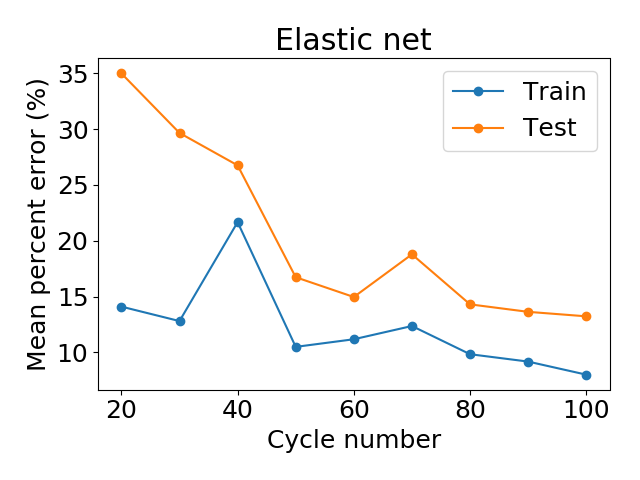
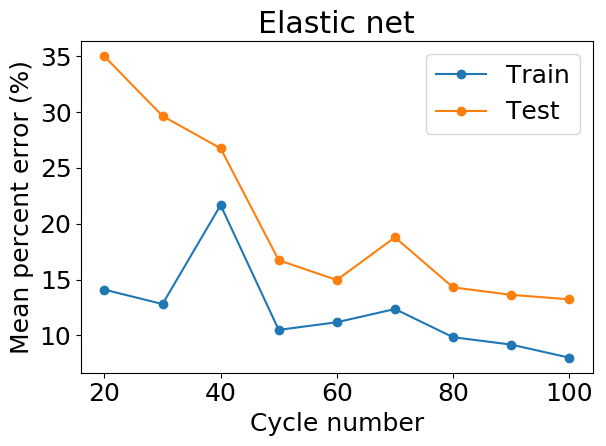
test error plots

diff --git a/test.py b/test.py
@@ -8,17 +8,25 @@ Created on Sun Dec  9 21:30:22 2018
 @author: peter
 """
 import numpy as np
+import matplotlib
 import matplotlib.pyplot as plt
 import pickle
+from sklearn.ensemble import RandomForestRegressor
 
-MODEL = 'enet'
+doPlot = False
+use_all_features = False
+
+MODEL = 'RF'
 
 if MODEL == 'enet':
     full_name = 'Elastic net'
-elif MODEL == 'svr':
+    use_log_cycle_life = True
+elif MODEL == 'SVR':
     full_name = 'SVR'
-elif MODEL == 'rf':
+    use_log_cycle_life = False
+elif MODEL == 'RF':
     full_name = 'Random forest'
+    use_log_cycle_life = False
 
 def main():
     # prelims
@@ -28,8 +36,6 @@ def main():
     N_cycles = np.array([20,30,40,50,60,70,80,90,100])
     rmse = np.zeros(N_cycles.shape)
     mpe = np.zeros(N_cycles.shape)
-    use_log_cycle_life = True
-    use_all_features = False
     which_features = [2,3,4,21,22,24,25,39,40,48,49,63,65]
     
     # load all models
@@ -42,24 +48,33 @@ def main():
         file_name = "testing/cycles_2TO" + str(int(N_cycles[i])) + "_log.csv"
         features, cycle_lives, feature_names = load_dataset(file_name, False, use_all_features, which_features)
         
-        # set enet model
+        file_name = "training/cycles_2TO" + str(int(N_cycles[i])) + "_log.csv"
+        train_features, train_cycle_lives, feature_names = load_dataset(file_name, False, use_all_features, which_features)
+        
+        
+        # set model
         m = models[i]
         
         # predictions
         if use_log_cycle_life:
             predicted_cycle_lives = 10**m.predict(features)
+            train_predicted_cycle_lives = 10**m.predict(train_features)
         else:
             predicted_cycle_lives = m.predict(features)
+            train_predicted_cycle_lives = m.predict(train_features)
         
-        plt.figure()
-        plt.plot(cycle_lives,predicted_cycle_lives,'o')
-        plt.plot([0,1400],[0,1400],'r-')
-        plt.ylabel('Predicted cycle life')
-        plt.xlabel('Observed cycle life')
-        plt.title('Cycle number '+str(N_cycles[i]))
-        #plt.axis('equal')
-        plt.axis([0, 1400, 0, 1400])
-        plt.show()
+        print(predicted_cycle_lives)
+        print(train_predicted_cycle_lives)
+        
+        if doPlot:
+            plt.figure()
+            plt.plot(cycle_lives,predicted_cycle_lives,'o')
+            plt.plot([0,1400],[0,1400],'r-')
+            plt.ylabel('Predicted cycle life')
+            plt.xlabel('Observed cycle life')
+            plt.title('Cycle number '+str(N_cycles[i]))
+            #plt.axis('equal')
+            plt.axis([0, 1400, 0, 1400])
         
         residuals = predicted_cycle_lives - cycle_lives
         rmse[i] = np.sqrt(((residuals) ** 2).mean())
@@ -72,10 +87,10 @@ def main():
         print('=======================================')
         
     
-    # plot rmse vs cycle number
+    # plot error vs cycle number
     train_mpe = pickle.load(open(MODEL+"_training_percenterror.pkl", "rb" ))
     if MODEL != 'enet':
-        cv_mpe = pickle.load(open(MODEL+"_cv_percenterror.pkl", "rb" ))
+        cv_mpe = pickle.load(open(MODEL+"_crossvalid_percenterror.pkl", "rb" ))
     
     # mse
     plt.figure()
@@ -89,7 +104,23 @@ def main():
     plt.title(full_name)
     
     plt.tight_layout()
-    plt.savefig(MODEL+'_error.png')
+    plt.savefig(MODEL+'_error.png',bbox_inches='tight')
+    
+    # diagonal line plot
+    plt.figure()
+    plt.plot(train_cycle_lives,train_predicted_cycle_lives,'rs',label='Train')
+    plt.plot(cycle_lives,predicted_cycle_lives,'bo',label='Test')
+    plt.plot([0,2400],[0,2400],'k--')
+    plt.ylabel('Predicted cycle life')
+    plt.xlabel('Observed cycle life')
+    #plt.title('Cycle '+str(N_cycles[i]))
+    plt.axes().set_aspect('equal', 'box')
+    plt.xticks(np.arange(0, 2501, step=500))
+    plt.yticks(np.arange(0, 2501, step=500))
+    plt.axis([0, 2501, 0, 2501])
+    plt.legend()
+    plt.tight_layout()
+    plt.savefig(MODEL+'_obs_vs_pred.png',bbox_inches='tight')
 
 def load_dataset(csv_path, add_intercept=True, use_all_features=True, which_features=[2]):
     """Load dataset from a CSV file.
